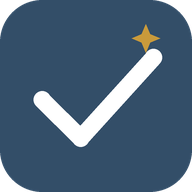
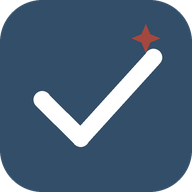
Fold ochre into brick
Logo mark, stars, chip tints and the default progress bar now use the
terracotta A4483D family instead of ochre, so the app runs on navy,
blue, brick and sage only. Service worker cache bumped to tada-v6.

Changed region(s): [[0.6875, 0.125, 0.8438, 0.2812]]

diff --git a/src/components/planner/screens/partners.tsx b/src/components/planner/screens/partners.tsx
@@ -64,7 +64,7 @@ export function PartnersScreen() {
                 <span className="font-bold">{p.nameOf(r.fromUser)}</span> wants to be your accountability partner.
               </span>
               {!canAddPartner ? (
-                <Link href="/account" className="rounded-xl px-3 py-1.5 text-xs font-semibold" style={{ background: "#F1E7D0", color: C.fade }}>
+                <Link href="/account" className="rounded-xl px-3 py-1.5 text-xs font-semibold" style={{ background: "#F3E1DD", color: C.fade }}>
                   Upgrade to add
                 </Link>
               ) : (
@@ -72,7 +72,7 @@ export function PartnersScreen() {
                   Accept
                 </button>
               )}
-              <button onClick={() => void p.declineRequest(r)} className="rounded-xl px-2 py-1.5" style={{ background: "#F1E7D0" }} aria-label="Decline">
+              <button onClick={() => void p.declineRequest(r)} className="rounded-xl px-2 py-1.5" style={{ background: "#F3E1DD" }} aria-label="Decline">
                 <X size={14} style={{ color: C.fade }} />
               </button>
             </div>
@@ -166,7 +166,7 @@ export function PartnersScreen() {
                   </div>
                 </div>
               </button>
-              <button onClick={() => void p.sendRequest(s.id)} disabled={disabled} className="rounded-xl px-3 py-1.5 text-xs font-semibold" style={{ background: disabled ? "#F1E7D0" : C.navy, color: disabled ? C.fade : C.cream }}>
+              <button onClick={() => void p.sendRequest(s.id)} disabled={disabled} className="rounded-xl px-3 py-1.5 text-xs font-semibold" style={{ background: disabled ? "#F3E1DD" : C.navy, color: disabled ? C.fade : C.cream }}>
                 {asked ? "Asked" : !canAddPartner ? "Upgrade to add" : "Ask to partner"}
               </button>
             </div>
@@ -204,7 +204,7 @@ export function PartnersScreen() {
               <button onClick={() => void p.answerInvite(inv, true)} className="rounded-xl px-3 py-1.5 text-xs font-semibold" style={{ background: C.teal, color: "#fff" }}>
                 Join
               </button>
-              <button onClick={() => void p.answerInvite(inv, false)} className="rounded-xl px-2 py-1.5" style={{ background: "#F1E7D0" }} aria-label="Decline">
+              <button onClick={() => void p.answerInvite(inv, false)} className="rounded-xl px-2 py-1.5" style={{ background: "#F3E1DD" }} aria-label="Decline">
                 <X size={14} style={{ color: C.fade }} />
               </button>
             </div>

diff --git a/src/components/planner/shell.tsx b/src/components/planner/shell.tsx
@@ -303,8 +303,8 @@ function ProfileModal({ id }: { id: string }) {
           {card.stats ? (
             <div className="mb-3 flex flex-wrap gap-2">
               <Chip color="#A4483D" bg="#F3E1DD">🔥 {card.stats.streak} day streak</Chip>
-              <Chip color={C.navy2} bg="#F1E7D0">Best {card.stats.bestStreak}</Chip>
-              <Chip color={levelColor(level)} bg="#F1E7D0">
+              <Chip color={C.navy2} bg="#F3E1DD">Best {card.stats.bestStreak}</Chip>
+              <Chip color={levelColor(level)} bg="#F3E1DD">
                 {levelIcon(level)} Level {level}
               </Chip>
             </div>
@@ -362,7 +362,7 @@ function ProfileModal({ id }: { id: string }) {
           {!isMe && (
             <div className="mt-2 flex gap-2">
               {blocked ? (
-                <button onClick={() => void p.unblockUser(id)} className="flex-1 rounded-xl py-2 text-xs font-semibold" style={{ background: "#F1E7D0", color: C.ink }}>
+                <button onClick={() => void p.unblockUser(id)} className="flex-1 rounded-xl py-2 text-xs font-semibold" style={{ background: "#F3E1DD", color: C.ink }}>
                   Unblock {card.name}
                 </button>
               ) : (
@@ -370,7 +370,7 @@ function ProfileModal({ id }: { id: string }) {
                   Block this member
                 </button>
               )}
-              <button onClick={() => setReporting((r) => !r)} className="rounded-xl px-3 py-2 text-xs font-semibold" style={{ background: "#F1E7D0", color: C.ink }}>
+              <button onClick={() => setReporting((r) => !r)} className="rounded-xl px-3 py-2 text-xs font-semibold" style={{ background: "#F3E1DD", color: C.ink }}>
                 Report
               </button>
             </div>
@@ -417,7 +417,7 @@ function ConfirmRemoveModal() {
             : `This frees one of your 7 included seats. You'll be using ${Math.max(0, p.seatCount - 1)} of 7.`}
       </p>
       <div className="flex gap-2">
-        <button onClick={() => p.set("confirmRemove", null)} className="flex-1 rounded-xl py-2.5 text-sm font-semibold" style={{ background: "#F1E7D0", color: C.ink }}>
+        <button onClick={() => p.set("confirmRemove", null)} className="flex-1 rounded-xl py-2.5 text-sm font-semibold" style={{ background: "#F3E1DD", color: C.ink }}>
           Keep them
         </button>
         <button

diff --git a/src/components/planner/screens/community.tsx b/src/components/planner/screens/community.tsx
@@ -135,7 +135,7 @@ export function CommunityScreen() {
                 const arr = post.reactions[r.id] || [];
                 const mine = arr.includes(p.me.id);
                 return (
-                  <button key={r.id} onClick={() => void p.toggleReact(post.id, r.id as ReactKind)} className="flex items-center gap-1 rounded-full px-2 py-1 text-xs" style={{ background: mine ? C.goldSoft : "#F1E7D0", border: mine ? `1px solid ${C.gold}` : "1px solid transparent", color: C.ink }}>
+                  <button key={r.id} onClick={() => void p.toggleReact(post.id, r.id as ReactKind)} className="flex items-center gap-1 rounded-full px-2 py-1 text-xs" style={{ background: mine ? C.goldSoft : "#F3E1DD", border: mine ? `1px solid ${C.gold}` : "1px solid transparent", color: C.ink }}>
                     <span>{r.e}</span>
                     <span className="font-semibold">{arr.length}</span>
                   </button>

diff --git a/src/lib/planner/content.ts b/src/lib/planner/content.ts
@@ -34,7 +34,7 @@ export const blockLabel = (b: string) => BLOCK_META.find((x) => x.id === b)?.lab
 
 export const PTYPE_META = {
   question: { label: "Question", color: "#3F7D5C" },
-  win: { label: "Win", color: "#7A5A1E" },
+  win: { label: "Win", color: "#8A3D33" },
   boost: { label: "Boost", color: "#A4483D" },
 } as const;
 
@@ -102,7 +102,7 @@ export const nextLevelAt = (total: number) => {
   const over = total - 1000;
   return 1000 + (Math.floor(over / 300) + 1) * 300;
 };
-export const levelColor = (lv: number) => (lv >= 10 ? "#A4483D" : lv >= 7 ? "#7A5A1E" : lv >= 4 ? "#4A6FA5" : "#3F7D5C");
+export const levelColor = (lv: number) => (lv >= 10 ? "#A4483D" : lv >= 7 ? "#8A3D33" : lv >= 4 ? "#4A6FA5" : "#3F7D5C");
 export const levelIcon = (lv: number) => (lv >= 10 ? "🌋" : lv >= 7 ? "🏔" : "⛰");
 
 // ---------- help content ----------

diff --git a/src/app/(app)/invite/[token]/invite-client.tsx b/src/app/(app)/invite/[token]/invite-client.tsx
@@ -69,7 +69,7 @@ export function InviteClient({ token }: { token: string }) {
               </p>
             )}
             <div className="flex gap-2">
-              <button onClick={() => router.replace("/partners")} className="flex-1 rounded-xl py-2.5 text-sm font-semibold" style={{ background: "#F1E7D0", color: C.ink }}>
+              <button onClick={() => router.replace("/partners")} className="flex-1 rounded-xl py-2.5 text-sm font-semibold" style={{ background: "#F3E1DD", color: C.ink }}>
                 Not now
               </button>
               <button onClick={() => void join()} disabled={busy} className="flex-1 rounded-xl py-2.5 text-sm font-semibold" style={{ background: C.teal, color: "#fff", opacity: busy ? 0.7 : 1 }}>

diff --git a/src/app/admin/members/page.tsx b/src/app/admin/members/page.tsx
@@ -7,7 +7,7 @@ export const dynamic = "force-dynamic";
 type Search = Promise<{ q?: string; plan?: string; status?: string }>;
 
 const badge = (text: string, tone: "navy" | "gold" | "coral" | "teal" | "fade") => {
-  const map = { navy: "bg-mist text-navy-2", gold: "bg-gold-soft text-gold-deep", coral: "bg-coral-soft text-coral", teal: "bg-[#F1E7D0] text-teal", fade: "bg-mist text-fade" };
+  const map = { navy: "bg-mist text-navy-2", gold: "bg-gold-soft text-gold-deep", coral: "bg-coral-soft text-coral", teal: "bg-[#F3E1DD] text-teal", fade: "bg-mist text-fade" };
   return <span className={`rounded-full px-2 py-0.5 text-xs font-semibold ${map[tone]}`}>{text}</span>;
 };
 

diff --git a/src/components/planner/screens/account.tsx b/src/components/planner/screens/account.tsx
@@ -149,7 +149,7 @@ export function AccountScreen() {
             const cur = b.val(p.stats, hasPartner);
             const earned = cur >= b.target;
             return (
-              <div key={b.id} className="rounded-xl p-2 text-center" style={{ background: earned ? C.goldSoft : "#F1E7D0", opacity: earned ? 1 : 0.45 }}>
+              <div key={b.id} className="rounded-xl p-2 text-center" style={{ background: earned ? C.goldSoft : "#F3E1DD", opacity: earned ? 1 : 0.45 }}>
                 <div style={{ fontSize: 20 }}>{b.e}</div>
                 <div className="font-semibold" style={{ fontSize: 9, color: C.navy }}>
                   {b.name}

diff --git a/src/components/planner/ui.tsx b/src/components/planner/ui.tsx
@@ -8,9 +8,9 @@ import type { Badge } from "@/lib/planner/types";
 export const C = {
   navy: "#334E68",
   navy2: "#4A6FA5",
-  gold: "#C99A3B",
-  goldDeep: "#7A5A1E",
-  goldSoft: "#F1E7D0",
+  gold: "#A4483D",
+  goldDeep: "#8A3D33",
+  goldSoft: "#F3E1DD",
   mist: "#E1E7EE",
   cream: "#F2F3F5",
   coral: "#A4483D",
@@ -53,7 +53,7 @@ export const renderRich = (text: string) =>
     .split(/(@[\w'-]+)/g)
     .map((part, i) =>
       part.startsWith("@") ? (
-        <span key={i} style={{ color: "#7A5A1E", fontWeight: 700 }}>
+        <span key={i} style={{ color: "#8A3D33", fontWeight: 700 }}>
           {part}
         </span>
       ) : (

diff --git a/public/sw.js b/public/sw.js
@@ -3,7 +3,7 @@
  * - Handles Web Push messages (wired up in Phase 3).
  * Bump CACHE_VERSION whenever you change this file so old caches are dropped.
  */
-const CACHE_VERSION = "tada-v5";
+const CACHE_VERSION = "tada-v6";
 const OFFLINE_URL = "/offline";
 const PRECACHE = [OFFLINE_URL, "/icons/icon-192.png", "/icons/icon-512.png", "/audio/tada.mp3"];
 

diff --git a/src/app/globals.css b/src/app/globals.css
@@ -8,9 +8,9 @@
 @theme {
   --color-navy: #334E68;
   --color-navy-2: #4A6FA5;
-  --color-gold: #C99A3B;
-  --color-gold-deep: #7A5A1E;
-  --color-gold-soft: #F1E7D0;
+  --color-gold: #A4483D;
+  --color-gold-deep: #8A3D33;
+  --color-gold-soft: #F3E1DD;
   --color-cream: #F2F3F5;
   --color-coral: #A4483D;
   --color-coral-soft: #F3E1DD;
